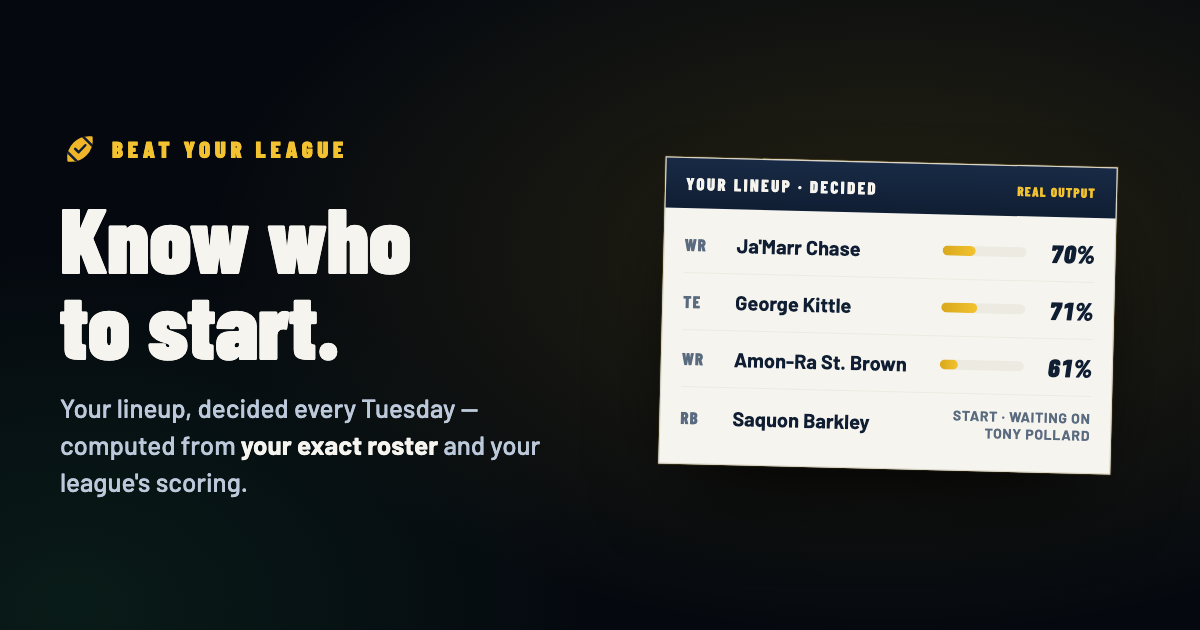
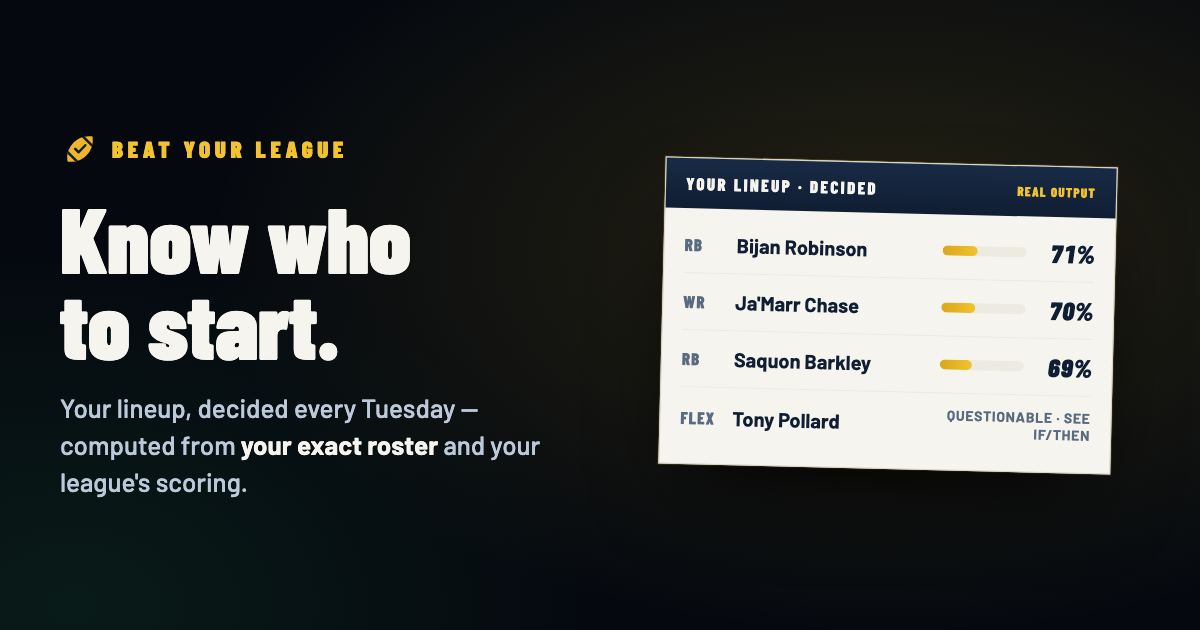
Last season counts all season: ships where it held up
The preregistered run (reports/anchor-backtest.md): on held-out 2020-2024 the
anchored lineups went 179-176 against the shipped ones where they differed,
a draw on points, while benching 20% fewer available stars and keeping the
number at grade B (refit b' = 1.4670). Both frozen clauses held, so it ships
in the setups whose own arm also held; 10- and 14-team leagues and superflex
did not and keep the shipped model.

Barkley on 2026 week 4 now projects 9.4, even with LaPorta, and the report
calls it a coin flip instead of a confident bench. The sample, landing cards
and share card are regenerated from the product.

diff --git a/site/sample-report.html b/site/sample-report.html
@@ -13,7 +13,7 @@
 <meta property="og:image" content="https://beatyourleague.com/og.png">
 <meta property="og:image:width" content="1200">
 <meta property="og:image:height" content="630">
-<meta property="og:image:alt" content="A Beat Your League lineup report: four roster slots, three with a percentage, one marked start.">
+<meta property="og:image:alt" content="A Beat Your League lineup report: four roster slots, three with a percentage, one marked questionable.">
 <link rel="icon" href="/favicon.ico" sizes="32x32">
 <link rel="icon" href="/favicon.svg" type="image/svg+xml">
 <link rel="apple-touch-icon" href="/apple-touch-icon.png">
@@ -335,7 +335,7 @@
 </head>
 <body>
 <div class="report">
-<header class="bug"><div style="display:flex;align-items:center;justify-content:space-between;gap:12px;flex-wrap:wrap;"><a class="brand" href="index.html" style="text-decoration:none;"><svg class="mark" viewBox="0 0 64 64" aria-hidden="true" focusable="false"><defs><clipPath id="bylmClip"><path d="M-28.37 0A35 35 0 0 1 28.37 0A35 35 0 0 1-28.37 0Z" transform="translate(32 32) rotate(-45)"/></clipPath></defs><path d="M-26.5 0A33.5 33.5 0 0 1 26.5 0A33.5 33.5 0 0 1-26.5 0Z" transform="translate(32 32) rotate(-45)" fill="#F0B62A" stroke="#F0B62A" stroke-width="3" stroke-linejoin="round"/><g clip-path="url(#bylmClip)" fill="#101E33"><rect x="-19.5" y="-20" width="4" height="40" transform="translate(32 32) rotate(-45)"/><rect x="15.5" y="-20" width="4" height="40" transform="translate(32 32) rotate(-45)"/></g><path d="M24.3 31.7l5.5 5.5 10.7-11.2" fill="none" stroke-width="4" stroke-linecap="round" stroke-linejoin="round" stroke="#101E33"/></svg><span>Beat Your League</span></a><a class="home" href="index.html" style="font-family:'Barlow',sans-serif;font-weight:600;font-size:14px;line-height:1;white-space:nowrap;text-decoration:none;color:var(--paper);padding:8px 15px;border:1.5px solid rgba(246,244,238,.45);border-radius:999px;">← Home</a></div><h1>Week 10 · Your Report</h1><div class="chips"><span class="chip"><b>Your league</b> · 12 teams · Full PPR</span><span class="chip">Rebuilt Sep 29, 2026 from the 2024 season archive</span></div></header><div class="regret-note" style="margin:0;border-left:none;">SAMPLE REPORT — a real week from the 2024 NFL season, built exactly the way yours will be: one roster, scored its league's way, from that week's box scores and injury reports.</div><section><div class="eyebrow"><span class="tag">Your Game Plan</span><span class="n">01</span></div><div class="plan"><div class="task"><div class="box"></div><div><div class="do">Start George Kittle over Sam LaPorta at TE · 71%</div><div class="why">Sam LaPorta: TE3 last season. Last three games: 3.5, 16.8, 4.8. Projects 6.5, George Kittle 10.7.</div><div class="dl ok">before this week&#x27;s first kickoff</div></div></div><div class="task"><div class="box"></div><div><div class="do">Bench Tony Pollard — Chase Brown starts at FLEX</div><div class="why">Tony Pollard: RB23 last season. Listed questionable. Last three games: 8.5, 14.7, 18.4. Projects 11.2, Chase Brown 11.2.</div><div class="dl ok">before this week&#x27;s first kickoff</div></div></div><div class="task"><div class="box"></div><div><div class="do">Set this lineup</div><div class="why">QB Josh Allen · RB Saquon Barkley · RB Bijan Robinson · WR Ja&#x27;Marr Chase · WR Amon-Ra St. Brown · TE George Kittle · FLEX Chase Brown · K Jake Bates · DEF Denver Broncos</div><div class="dl ok">before this week&#x27;s first kickoff</div></div></div><div class="task"><div class="box"></div><div><div class="do">Sunday morning: check Tony Pollard&#x27;s status</div><div class="why">Your if/then below already has the answer either way.</div><div class="dl">gameday morning</div></div></div></div></section><section><div class="eyebrow"><span class="tag">Your Week</span><span class="n">02</span></div><div class="team"><div class="name">Your Team</div><div class="pts">111.5 <small>PROJ</small></div><div class="yards">79 – 144 realistic range</div></div><p class="withheldline">Every call below is your starter against your own bench.</p></section><section><div class="eyebrow"><span class="tag">The Lineup</span><span class="n">03</span></div><table class="tape"><colgroup><col style="width:9%"><col style="width:58%"><col style="width:12%"><col style="width:21%"></colgroup><tr class="thead"><td></td><td>Your lineup</td><td style="text-align:right">Proj</td><td>Call</td></tr><tr class="trow"><td class="tslot">QB</td><td class="tside you"><span class="tname">Josh Allen</span><span class="tsub">last 4 games: 21 carries</span></td><td class="tpts you">17.4</td><td class="tcall"></td></tr><tr class="trow"><td class="tslot">RB</td><td class="tside you"><span class="tname">Saquon Barkley</span><span class="tsub">+4.1 over Tony Pollard on your bench · last 4 games: 10 targets (2.5 a game), 84 carries</span></td><td class="tpts you">15.3</td><td class="tcall"><span class="tsub">start · waiting on Tony Pollard</span></td></tr><tr class="trow"><td class="tslot">RB</td><td class="tside you"><span class="tname">Bijan Robinson</span><span class="tsub">+3.1 over Tony Pollard on your bench · last 4 games: 23 targets (5.8 a game), 68 carries</span></td><td class="tpts you">14.3</td><td class="tcall"><span class="tsub">start · waiting on Tony Pollard</span></td></tr><tr class="trow"><td class="tslot">WR</td><td class="tside you"><span class="tname">Ja&#x27;Marr Chase</span><span class="tsub">+5.0 over Courtland Sutton on your bench · last 4 games: 34 targets (8.5 a game), 1 carry</span></td><td class="tpts you">15.3</td><td class="tcall"><b>70%</b><span class="cbar" title="Bar starts at 50%, a coin flip"><i style="width:39%"></i></span></td></tr><tr class="trow"><td class="tslot">WR</td><td class="tside you"><span class="tname">Amon-Ra St. Brown</span><span class="tsub">+2.4 over Courtland Sutton on your bench · last 4 games: 21 targets (5.2 a game)</span></td><td class="tpts you">12.7</td><td class="tcall"><b>61%</b><span class="cbar" title="Bar starts at 50%, a coin flip"><i style="width:22%"></i></span></td></tr><tr class="trow"><td class="tslot">TE</td><td class="tside you"><span class="tname">George Kittle</span><span class="tsub">+4.2 over Sam LaPorta on your bench · last 3 games: 20 targets (6.7 a game)</span></td><td class="tpts you">10.7</td><td class="tcall"><b>71%</b><span class="cbar" title="Bar starts at 50%, a coin flip"><i style="width:43%"></i></span></td></tr><tr class="trow"><td class="tslot">FLEX</td><td class="tside you"><span class="tname">Chase Brown</span><span class="tsub">+0.9 over Courtland Sutton on your bench · last 4 games: 14 targets (3.5 a game), 64 carries</span></td><td class="tpts you">11.2</td><td class="tcall"><b>54%</b><span class="cbar" title="Bar starts at 50%, a coin flip"><i style="width:8%"></i></span></td></tr><tr class="trow"><td class="tslot">K</td><td class="tside you"><span class="tname">Jake Bates</span></td><td class="tpts you">7.7</td><td class="tcall"></td></tr><tr class="trow"><td class="tslot">DEF</td><td class="tside you"><span class="tname">Denver Broncos</span><span class="tsub">+2.1 over Baltimore Ravens on your bench</span></td><td class="tpts you">6.8</td><td class="tcall"><span class="tsub">projection only</span></td></tr></table><table class="tape benchtape"><colgroup><col style="width:9%"><col style="width:58%"><col style="width:12%"><col style="width:21%"></colgroup><tr class="thead"><td></td><td>On your bench</td><td style="text-align:right">Proj</td><td></td></tr><tr class="trow bench"><td class="tslot">RB</td><td class="tside you"><span class="tname">Tony Pollard</span><span class="trank">RB23 last season</span><span class="tsub">last 3: 8.5, 14.7, 18.4</span></td><td class="tpts you">11.2</td><td class="tcall"></td></tr><tr class="trow bench"><td class="tslot">WR</td><td class="tside you"><span class="tname">Courtland Sutton</span><span class="tsub">last 3: 15.3, 17.1, 23.3</span></td><td class="tpts you">10.3</td><td class="tcall"></td></tr><tr class="trow bench"><td class="tslot">WR</td><td class="tside you"><span class="tname">Rome Odunze</span><span class="tsub">last 3: 6.0, 8.4, 15.4</span></td><td class="tpts you">8.2</td><td class="tcall"></td></tr><tr class="trow bench"><td class="tslot">TE</td><td class="tside you"><span class="tname">Sam LaPorta</span><span class="trank">TE3 last season</span><span class="tsub">last 3: 3.5, 16.8, 4.8</span></td><td class="tpts you">6.5</td><td class="tcall"></td></tr><tr class="trow bench"><td class="tslot">DEF</td><td class="tside you"><span class="tname">Baltimore Ravens</span><span class="tsub">last 3: 6.0, 1.0, 10.0</span></td><td class="tpts you">4.6</td><td class="tcall"></td></tr><tr class="trow bench"><td class="tslot">WR</td><td class="tside you"><span class="tname">Jayden Reed</span><span class="tflag">can&#x27;t play this week</span></td><td class="tpts you">—</td><td class="tcall"></td></tr></table><div class="withheld"><b>How to read the odds.</b> The % is the chance your starter outscores your best bench player at that spot, and the bar starts at 50% (a toss-up). We only give odds when both players are confirmed to play. Rows without odds this week: defenses get a projection only · no bench player at that position · one of the two players is questionable.</div></section><section><div class="eyebrow"><span class="tag">The Week&#x27;s Closest Call</span><span class="n">04</span></div><div class="call"><div class="verdict">Start Chase Brown <span class="over">over</span> Courtland Sutton</div><div class="conf"><div class="bar"><i style="width:54%"></i></div><div class="num">54%</div></div><div class="drivers"><span class="drv">proj <b>11.2 vs 10.3</b></span><span class="drv">games this season <b>9 vs 8</b></span></div><p class="why">That&#x27;s the chance Chase Brown outscores Courtland Sutton this week.</p></div></section><section><div class="eyebrow"><span class="tag">If/Then for Gameday</span><span class="n">05</span></div><div class="pivots"><div class="pivot"><div class="if">If</div><div class="cond">Tony Pollard (bench) is cleared to play</div><div class="then">Keep Chase Brown at FLEX — they project dead even at 11.2, so it&#x27;s not worth a swap. If he&#x27;s out, nothing changes.</div></div></div></section><section><div class="eyebrow"><span class="tag">The Receipts</span><span class="n">06</span></div><div class="ledger">Your results start here: once this week&#x27;s games are final, every call shows up with how it played out.<br><span class="stamp">Results · from next week</span></div></section><div class="regret-note" style="margin:14px 0 0;text-align:center;">This report is from the 2024 season. Yours is built from your own roster, scored your league's way — <a href="join/index.html" style="color:var(--brick);font-weight:700;">set it up</a> and your first report lands the day you join.</div><footer><b>Beat Your League</b> — the weekly scouting report for your fantasy roster, every Tuesday.<br>Sample report built from a real past season, to show what you get. Injury and inactive data as of the week 9 injury report, the last complete one before this file goes out.<br>Projections are analysis, not guarantees — no betting picks, no staking advice. Fantasy decisions are yours to make.<br>NFL data: nflverse (nflverse-data), CC-BY-4.0. Aggregated and scored to your league&#x27;s settings by us. Not affiliated with the NFL.<br><b>Done with this?</b> Cancel it yourself from your own billing page — it takes about fifteen seconds and stops the billing immediately; the exact steps are on our terms page. Unsubscribing from emails alone does not stop a subscription, so cancel there if you want the charges to end.</footer>
+<header class="bug"><div style="display:flex;align-items:center;justify-content:space-between;gap:12px;flex-wrap:wrap;"><a class="brand" href="index.html" style="text-decoration:none;"><svg class="mark" viewBox="0 0 64 64" aria-hidden="true" focusable="false"><defs><clipPath id="bylmClip"><path d="M-28.37 0A35 35 0 0 1 28.37 0A35 35 0 0 1-28.37 0Z" transform="translate(32 32) rotate(-45)"/></clipPath></defs><path d="M-26.5 0A33.5 33.5 0 0 1 26.5 0A33.5 33.5 0 0 1-26.5 0Z" transform="translate(32 32) rotate(-45)" fill="#F0B62A" stroke="#F0B62A" stroke-width="3" stroke-linejoin="round"/><g clip-path="url(#bylmClip)" fill="#101E33"><rect x="-19.5" y="-20" width="4" height="40" transform="translate(32 32) rotate(-45)"/><rect x="15.5" y="-20" width="4" height="40" transform="translate(32 32) rotate(-45)"/></g><path d="M24.3 31.7l5.5 5.5 10.7-11.2" fill="none" stroke-width="4" stroke-linecap="round" stroke-linejoin="round" stroke="#101E33"/></svg><span>Beat Your League</span></a><a class="home" href="index.html" style="font-family:'Barlow',sans-serif;font-weight:600;font-size:14px;line-height:1;white-space:nowrap;text-decoration:none;color:var(--paper);padding:8px 15px;border:1.5px solid rgba(246,244,238,.45);border-radius:999px;">← Home</a></div><h1>Week 10 · Your Report</h1><div class="chips"><span class="chip"><b>Your league</b> · 12 teams · Full PPR</span><span class="chip">Rebuilt Sep 29, 2026 from the 2024 season archive</span></div></header><div class="regret-note" style="margin:0;border-left:none;">SAMPLE REPORT — a real week from the 2024 NFL season, built exactly the way yours will be: one roster, scored its league's way, from that week's box scores and injury reports.</div><section><div class="eyebrow"><span class="tag">Your Game Plan</span><span class="n">01</span></div><div class="plan"><div class="task"><div class="box"></div><div><div class="do">Start George Kittle over Sam LaPorta at TE · 63%</div><div class="why">Sam LaPorta: TE3 last season. Last three games: 3.5, 16.8, 4.8. Projects 7.8, George Kittle 10.4.</div><div class="dl ok">before this week&#x27;s first kickoff</div></div></div><div class="task"><div class="box"></div><div><div class="do">Set this lineup</div><div class="why">QB Josh Allen · RB Saquon Barkley · RB Bijan Robinson · WR Ja&#x27;Marr Chase · WR Amon-Ra St. Brown · TE George Kittle · FLEX Tony Pollard · K Jake Bates · DEF Denver Broncos</div><div class="dl ok">before this week&#x27;s first kickoff</div></div></div><div class="task"><div class="box"></div><div><div class="do">Sunday morning: check Tony Pollard&#x27;s status</div><div class="why">Your if/then below already has the answer either way.</div><div class="dl">gameday morning</div></div></div></div></section><section><div class="eyebrow"><span class="tag">Your Week</span><span class="n">02</span></div><div class="team"><div class="name">Your Team</div><div class="pts">112.4 <small>PROJ</small></div><div class="yards">79 – 145 realistic range</div></div><p class="withheldline">Every call below is your starter against your own bench.</p></section><section><div class="eyebrow"><span class="tag">The Lineup</span><span class="n">03</span></div><table class="tape"><colgroup><col style="width:9%"><col style="width:58%"><col style="width:12%"><col style="width:21%"></colgroup><tr class="thead"><td></td><td>Your lineup</td><td style="text-align:right">Proj</td><td>Call</td></tr><tr class="trow"><td class="tslot">QB</td><td class="tside you"><span class="tname">Josh Allen</span><span class="tsub">last 4 games: 21 carries</span></td><td class="tpts you">18.4</td><td class="tcall"></td></tr><tr class="trow"><td class="tslot">RB</td><td class="tside you"><span class="tname">Saquon Barkley</span><span class="tsub">+4.9 over Chase Brown on your bench · last 4 games: 10 targets (2.5 a game), 84 carries</span></td><td class="tpts you">14.8</td><td class="tcall"><b>69%</b><span class="cbar" title="Bar starts at 50%, a coin flip"><i style="width:38%"></i></span></td></tr><tr class="trow"><td class="tslot">RB</td><td class="tside you"><span class="tname">Bijan Robinson</span><span class="tsub">+4.1 over Chase Brown on your bench · last 4 games: 23 targets (5.8 a game), 68 carries</span></td><td class="tpts you">14.0</td><td class="tcall"><b>71%</b><span class="cbar" title="Bar starts at 50%, a coin flip"><i style="width:42%"></i></span></td></tr><tr class="trow"><td class="tslot">WR</td><td class="tside you"><span class="tname">Ja&#x27;Marr Chase</span><span class="tsub">+5.0 over Courtland Sutton on your bench · last 4 games: 34 targets (8.5 a game), 1 carry</span></td><td class="tpts you">15.3</td><td class="tcall"><b>70%</b><span class="cbar" title="Bar starts at 50%, a coin flip"><i style="width:41%"></i></span></td></tr><tr class="trow"><td class="tslot">WR</td><td class="tside you"><span class="tname">Amon-Ra St. Brown</span><span class="tsub">+3.7 over Courtland Sutton on your bench · last 4 games: 21 targets (5.2 a game)</span></td><td class="tpts you">13.9</td><td class="tcall"><b>68%</b><span class="cbar" title="Bar starts at 50%, a coin flip"><i style="width:36%"></i></span></td></tr><tr class="trow"><td class="tslot">TE</td><td class="tside you"><span class="tname">George Kittle</span><span class="tsub">+2.5 over Sam LaPorta on your bench · last 3 games: 20 targets (6.7 a game)</span></td><td class="tpts you">10.4</td><td class="tcall"><b>63%</b><span class="cbar" title="Bar starts at 50%, a coin flip"><i style="width:26%"></i></span></td></tr><tr class="trow"><td class="tslot">FLEX</td><td class="tside you"><span class="tname">Tony Pollard</span><span class="tflag">designated Questionable</span><span class="tsub">+0.8 over Courtland Sutton on your bench · last 4 games: 16 targets (4.0 a game), 81 carries</span></td><td class="tpts you">11.1</td><td class="tcall"><span class="tsub">questionable · see if/then</span></td></tr><tr class="trow"><td class="tslot">K</td><td class="tside you"><span class="tname">Jake Bates</span></td><td class="tpts you">7.7</td><td class="tcall"></td></tr><tr class="trow"><td class="tslot">DEF</td><td class="tside you"><span class="tname">Denver Broncos</span><span class="tsub">+2.1 over Baltimore Ravens on your bench</span></td><td class="tpts you">6.8</td><td class="tcall"><span class="tsub">projection only</span></td></tr></table><table class="tape benchtape"><colgroup><col style="width:9%"><col style="width:58%"><col style="width:12%"><col style="width:21%"></colgroup><tr class="thead"><td></td><td>On your bench</td><td style="text-align:right">Proj</td><td></td></tr><tr class="trow bench"><td class="tslot">WR</td><td class="tside you"><span class="tname">Courtland Sutton</span><span class="tsub">last 3: 15.3, 17.1, 23.3</span></td><td class="tpts you">10.3</td><td class="tcall"></td></tr><tr class="trow bench"><td class="tslot">RB</td><td class="tside you"><span class="tname">Chase Brown</span><span class="tsub">last 3: 7.3, 11.4, 26.7</span></td><td class="tpts you">9.9</td><td class="tcall"></td></tr><tr class="trow bench"><td class="tslot">WR</td><td class="tside you"><span class="tname">Rome Odunze</span><span class="tsub">last 3: 6.0, 8.4, 15.4</span></td><td class="tpts you">8.2</td><td class="tcall"></td></tr><tr class="trow bench"><td class="tslot">TE</td><td class="tside you"><span class="tname">Sam LaPorta</span><span class="trank">TE3 last season</span><span class="tsub">last 3: 3.5, 16.8, 4.8</span></td><td class="tpts you">7.8</td><td class="tcall"></td></tr><tr class="trow bench"><td class="tslot">DEF</td><td class="tside you"><span class="tname">Baltimore Ravens</span><span class="tsub">last 3: 6.0, 1.0, 10.0</span></td><td class="tpts you">4.6</td><td class="tcall"></td></tr><tr class="trow bench"><td class="tslot">WR</td><td class="tside you"><span class="tname">Jayden Reed</span><span class="tflag">can&#x27;t play this week</span></td><td class="tpts you">—</td><td class="tcall"></td></tr></table><div class="withheld"><b>How to read the odds.</b> The % is the chance your starter outscores your best bench player at that spot, and the bar starts at 50% (a toss-up). We only give odds when both players are confirmed to play. Rows without odds this week: defenses get a projection only · no bench player at that position · one of the two players is questionable.</div></section><section><div class="eyebrow"><span class="tag">The Week&#x27;s Closest Call</span><span class="n">04</span></div><div class="call"><div class="verdict">Start George Kittle <span class="over">over</span> Sam LaPorta</div><div class="conf"><div class="bar"><i style="width:63%"></i></div><div class="num">63%</div></div><div class="drivers"><span class="drv">proj <b>10.4 vs 7.8</b></span><span class="drv">games this season <b>7 vs 8</b></span></div><p class="why">That&#x27;s the chance George Kittle outscores Sam LaPorta this week.</p></div></section><section><div class="eyebrow"><span class="tag">If/Then for Gameday</span><span class="n">05</span></div><div class="pivots"><div class="pivot"><div class="if">If</div><div class="cond">Tony Pollard (FLEX) is ruled out</div><div class="then">Move Courtland Sutton into FLEX (projects 10.3)</div></div></div></section><section><div class="eyebrow"><span class="tag">The Receipts</span><span class="n">06</span></div><div class="ledger">Your results start here: once this week&#x27;s games are final, every call shows up with how it played out.<br><span class="stamp">Results · from next week</span></div></section><div class="regret-note" style="margin:14px 0 0;text-align:center;">This report is from the 2024 season. Yours is built from your own roster, scored your league's way — <a href="join/index.html" style="color:var(--brick);font-weight:700;">set it up</a> and your first report lands the day you join.</div><footer><b>Beat Your League</b> — the weekly scouting report for your fantasy roster, every Tuesday.<br>Sample report built from a real past season, to show what you get. Injury and inactive data as of the week 9 injury report, the last complete one before this file goes out.<br>Projections are analysis, not guarantees — no betting picks, no staking advice. Fantasy decisions are yours to make.<br>NFL data: nflverse (nflverse-data), CC-BY-4.0. Aggregated and scored to your league&#x27;s settings by us. Not affiliated with the NFL.<br><b>Done with this?</b> Cancel it yourself from your own billing page — it takes about fifteen seconds and stops the billing immediately; the exact steps are on our terms page. Unsubscribing from emails alone does not stop a subscription, so cancel there if you want the charges to end.</footer>
 </div>
 </body>
 </html>

diff --git a/site/index.html b/site/index.html
@@ -13,7 +13,7 @@
 <meta property="og:image" content="https://beatyourleague.com/og.png">
 <meta property="og:image:width" content="1200">
 <meta property="og:image:height" content="630">
-<meta property="og:image:alt" content="A Beat Your League lineup report: four roster slots, three with a percentage, one marked start.">
+<meta property="og:image:alt" content="A Beat Your League lineup report: four roster slots, three with a percentage, one marked questionable.">
 <link rel="icon" href="/favicon.ico" sizes="32x32">
 <link rel="icon" href="/favicon.svg" type="image/svg+xml">
 <link rel="apple-touch-icon" href="/apple-touch-icon.png">
@@ -514,7 +514,7 @@
         <div class="notif" id="notif" aria-hidden="true">
           <span class="av"><svg class="avmark" viewBox="0 0 64 64" aria-hidden="true" focusable="false"><defs><clipPath id="byla2Clip"><path d="M-28.37 0A35 35 0 0 1 28.37 0A35 35 0 0 1-28.37 0Z" transform="translate(32 32) rotate(-45)"/></clipPath></defs><path d="M-26.5 0A33.5 33.5 0 0 1 26.5 0A33.5 33.5 0 0 1-26.5 0Z" transform="translate(32 32) rotate(-45)" fill="#F0B62A" stroke="#F0B62A" stroke-width="3" stroke-linejoin="round"/><g clip-path="url(#byla2Clip)" fill="#101E33"><rect x="-19.5" y="-20" width="4" height="40" transform="translate(32 32) rotate(-45)"/><rect x="15.5" y="-20" width="4" height="40" transform="translate(32 32) rotate(-45)"/></g><path d="M24.3 31.7l5.5 5.5 10.7-11.2" fill="none" stroke-width="4" stroke-linecap="round" stroke-linejoin="round" stroke="#101E33"/></svg></span>
           <span><b>Beat Your League</b><span>Week 10: your lineup, decided. Closest call:
-          Chase Brown over Sutton, 54%.</span></span>
+          Kittle over LaPorta, 63%.</span></span>
           <time>now</time>
         </div>
         <div class="inbox" aria-hidden="true">Inbox</div>
@@ -526,23 +526,23 @@
         <div class="filecard anim" id="hero-card" data-real="2024-w10">
           <div class="filehead">Your lineup · decided</div>
           <div class="fbody">
+            <div class="frow"><span class="fslot">RB</span><span class="fname">Bijan Robinson</span>
+              <span class="fbar"><i data-w="42" style="width:42%"></i></span><span class="fpct" data-n="71">71%</span></div>
             <div class="frow"><span class="fslot">WR</span><span class="fname">Ja'Marr Chase</span>
-              <span class="fbar"><i data-w="39" style="width:39%"></i></span><span class="fpct" data-n="70">70%</span></div>
-            <div class="frow"><span class="fslot">TE</span><span class="fname">George Kittle</span>
-              <span class="fbar"><i data-w="43" style="width:43%"></i></span><span class="fpct" data-n="71">71%</span></div>
-            <div class="frow"><span class="fslot">WR</span><span class="fname">Amon-Ra St. Brown</span>
-              <span class="fbar"><i data-w="22" style="width:22%"></i></span><span class="fpct" data-n="61">61%</span></div>
+              <span class="fbar"><i data-w="41" style="width:41%"></i></span><span class="fpct" data-n="70">70%</span></div>
             <div class="frow"><span class="fslot">RB</span><span class="fname">Saquon Barkley</span>
-              <span class="fnc">start · waiting on Tony Pollard</span></div>
+              <span class="fbar"><i data-w="38" style="width:38%"></i></span><span class="fpct" data-n="69">69%</span></div>
+            <div class="frow"><span class="fslot">FLEX</span><span class="fname">Tony Pollard</span>
+              <span class="fnc">questionable · see if/then</span></div>
           </div>
           <div class="fcap">Each % is the chance he outscores your best bench player.
           Longer bar, surer call.</div>
         </div><!--/card-->
         <div class="peek" aria-hidden="true"><div class="filehead">The week's closest call</div>
-          <p>Start Chase Brown over Courtland Sutton</p>
-          <div class="flipbar"><span class="a" style="width:54%"></span></div>
+          <p>Start George Kittle over Sam LaPorta</p>
+          <div class="flipbar"><span class="a" style="width:63%"></span></div>
           <div class="filehead">If/then for gameday</div>
-          <div class="pivot"><div class="if">If Tony Pollard (bench) is cleared to play</div></div></div>
+          <div class="pivot"><div class="if">If Tony Pollard (FLEX) is ruled out</div></div></div>
         <div class="homebar" aria-hidden="true"></div>
       </div>
     </div>
@@ -570,20 +570,20 @@
         <div class="filehead">The week's closest call</div>
         <div class="flip">
           <div class="flipnames">
-            <span>Chase Brown<small>start · proj 11.2</small></span>
-            <span style="text-align:right">Courtland Sutton<small>sit · proj 10.3</small></span>
+            <span>George Kittle<small>start · proj 10.4</small></span>
+            <span style="text-align:right">Sam LaPorta<small>sit · proj 7.8</small></span>
           </div>
-          <div class="flipbar"><span class="a" data-w="54" style="width:54%"></span></div>
-          <!-- One numeral only: the sample publishes the 61% side and nothing
+          <div class="flipbar"><span class="a" data-w="63" style="width:63%"></span></div>
+          <!-- One numeral only: the sample publishes the 63% side and nothing
                else, and a real-output card may not print a figure the product
                never printed — even an arithmetic complement. -->
-          <div class="flippct"><span>54%</span></div>
+          <div class="flippct"><span>63%</span></div>
         </div>
       </div><!--/card-->
     </div>
-    <div class="note"><b>The toss-up, called</b><p>Every week has one call that could go
-      either way. We pick a side and tell you how close it is: Start Chase Brown over
-      Courtland Sutton — 54%, proj 11.2 vs 10.3.</p></div>
+    <div class="note"><b>The close one, called</b><p>Every week has a call you could
+      argue either way. We pick a side and tell you how sure to be: Start George Kittle
+      over Sam LaPorta — 63%, proj 10.4 vs 7.8.</p></div>
     <div class="leaf">
       <div class="filecard anim" data-real="2024-w10">
         <div class="filehead">Who's getting the ball</div>
@@ -604,14 +604,14 @@
       <div class="filecard anim" data-real="2024-w10">
         <div class="filehead">If/then for gameday</div>
         <div class="pivot">
-          <div class="if">If Tony Pollard (bench) is cleared to play</div>
-          <p>Keep Chase Brown at FLEX — they project dead even at 11.2, so it's not
-          worth a swap. If he's ruled out, nothing changes.</p>
+          <div class="if">If Tony Pollard (FLEX) is ruled out</div>
+          <p>Move Courtland Sutton into FLEX (projects 10.3).</p>
         </div>
       </div><!--/card-->
     </div>
-    <div class="note"><b>Late news, handled early</b><p>Got a questionable player? The
-      report already tells you what to do if he plays and if he doesn't.</p></div>
+    <div class="note"><b>Late news, handled early</b><p>Got a questionable starter? The
+      report already names who goes in if he sits — and Saturday's final check tells
+      you if he does.</p></div>
   </div>
   <p class="realfoot"><b>Real report</b> · every figure above comes from the published
   <a href="sample-report.html" style="color:var(--flag)">2024 Week 10 sample</a>.</p>

diff --git a/site/backtest.html b/site/backtest.html
@@ -14,7 +14,7 @@
 <meta property="og:image" content="https://beatyourleague.com/og.png">
 <meta property="og:image:width" content="1200">
 <meta property="og:image:height" content="630">
-<meta property="og:image:alt" content="A Beat Your League lineup report: four roster slots, three with a percentage, one marked start.">
+<meta property="og:image:alt" content="A Beat Your League lineup report: four roster slots, three with a percentage, one marked questionable.">
 <link rel="icon" href="/favicon.ico" sizes="32x32">
 <link rel="icon" href="/favicon.svg" type="image/svg+xml">
 <link rel="apple-touch-icon" href="/apple-touch-icon.png">

diff --git a/site/compare/index.html b/site/compare/index.html
@@ -14,7 +14,7 @@
 <meta property="og:image" content="https://beatyourleague.com/og.png">
 <meta property="og:image:width" content="1200">
 <meta property="og:image:height" content="630">
-<meta property="og:image:alt" content="A Beat Your League lineup report: four roster slots, three with a percentage, one marked start.">
+<meta property="og:image:alt" content="A Beat Your League lineup report: four roster slots, three with a percentage, one marked questionable.">
 <link rel="icon" href="/favicon.ico" sizes="32x32">
 <link rel="icon" href="/favicon.svg" type="image/svg+xml">
 <link rel="apple-touch-icon" href="/apple-touch-icon.png">

diff --git a/site/confidence.html b/site/confidence.html
@@ -14,7 +14,7 @@
 <meta property="og:image" content="https://beatyourleague.com/og.png">
 <meta property="og:image:width" content="1200">
 <meta property="og:image:height" content="630">
-<meta property="og:image:alt" content="A Beat Your League lineup report: four roster slots, three with a percentage, one marked start.">
+<meta property="og:image:alt" content="A Beat Your League lineup report: four roster slots, three with a percentage, one marked questionable.">
 <link rel="icon" href="/favicon.ico" sizes="32x32">
 <link rel="icon" href="/favicon.svg" type="image/svg+xml">
 <link rel="apple-touch-icon" href="/apple-touch-icon.png">

diff --git a/site/join/index.html b/site/join/index.html
@@ -13,7 +13,7 @@
 <meta property="og:image" content="https://beatyourleague.com/og.png">
 <meta property="og:image:width" content="1200">
 <meta property="og:image:height" content="630">
-<meta property="og:image:alt" content="A Beat Your League lineup report: four roster slots, three with a percentage, one marked start.">
+<meta property="og:image:alt" content="A Beat Your League lineup report: four roster slots, three with a percentage, one marked questionable.">
 <link rel="icon" href="/favicon.ico" sizes="32x32">
 <link rel="icon" href="/favicon.svg" type="image/svg+xml">
 <link rel="apple-touch-icon" href="/apple-touch-icon.png">

diff --git a/site/league-pass.html b/site/league-pass.html
@@ -13,7 +13,7 @@
 <meta property="og:image" content="https://beatyourleague.com/og.png">
 <meta property="og:image:width" content="1200">
 <meta property="og:image:height" content="630">
-<meta property="og:image:alt" content="A Beat Your League lineup report: four roster slots, three with a percentage, one marked start.">
+<meta property="og:image:alt" content="A Beat Your League lineup report: four roster slots, three with a percentage, one marked questionable.">
 <link rel="icon" href="/favicon.ico" sizes="32x32">
 <link rel="icon" href="/favicon.svg" type="image/svg+xml">
 <link rel="apple-touch-icon" href="/apple-touch-icon.png">

diff --git a/site/ledger/index.html b/site/ledger/index.html
@@ -14,7 +14,7 @@
 <meta property="og:image" content="https://beatyourleague.com/og.png">
 <meta property="og:image:width" content="1200">
 <meta property="og:image:height" content="630">
-<meta property="og:image:alt" content="A Beat Your League lineup report: four roster slots, three with a percentage, one marked start.">
+<meta property="og:image:alt" content="A Beat Your League lineup report: four roster slots, three with a percentage, one marked questionable.">
 <link rel="icon" href="/favicon.ico" sizes="32x32">
 <link rel="icon" href="/favicon.svg" type="image/svg+xml">
 <link rel="apple-touch-icon" href="/apple-touch-icon.png">

diff --git a/site/legal.html b/site/legal.html
@@ -13,7 +13,7 @@
 <meta property="og:image" content="https://beatyourleague.com/og.png">
 <meta property="og:image:width" content="1200">
 <meta property="og:image:height" content="630">
-<meta property="og:image:alt" content="A Beat Your League lineup report: four roster slots, three with a percentage, one marked start.">
+<meta property="og:image:alt" content="A Beat Your League lineup report: four roster slots, three with a percentage, one marked questionable.">
 <link rel="icon" href="/favicon.ico" sizes="32x32">
 <link rel="icon" href="/favicon.svg" type="image/svg+xml">
 <link rel="apple-touch-icon" href="/apple-touch-icon.png">

diff --git a/site/no-call.html b/site/no-call.html
@@ -14,7 +14,7 @@
 <meta property="og:image" content="https://beatyourleague.com/og.png">
 <meta property="og:image:width" content="1200">
 <meta property="og:image:height" content="630">
-<meta property="og:image:alt" content="A Beat Your League lineup report: four roster slots, three with a percentage, one marked start.">
+<meta property="og:image:alt" content="A Beat Your League lineup report: four roster slots, three with a percentage, one marked questionable.">
 <link rel="icon" href="/favicon.ico" sizes="32x32">
 <link rel="icon" href="/favicon.svg" type="image/svg+xml">
 <link rel="apple-touch-icon" href="/apple-touch-icon.png">

diff --git a/site/privacy.html b/site/privacy.html
@@ -13,7 +13,7 @@
 <meta property="og:image" content="https://beatyourleague.com/og.png">
 <meta property="og:image:width" content="1200">
 <meta property="og:image:height" content="630">
-<meta property="og:image:alt" content="A Beat Your League lineup report: four roster slots, three with a percentage, one marked start.">
+<meta property="og:image:alt" content="A Beat Your League lineup report: four roster slots, three with a percentage, one marked questionable.">
 <link rel="icon" href="/favicon.ico" sizes="32x32">
 <link rel="icon" href="/favicon.svg" type="image/svg+xml">
 <link rel="apple-touch-icon" href="/apple-touch-icon.png">

diff --git a/site/projections.html b/site/projections.html
@@ -14,7 +14,7 @@
 <meta property="og:image" content="https://beatyourleague.com/og.png">
 <meta property="og:image:width" content="1200">
 <meta property="og:image:height" content="630">
-<meta property="og:image:alt" content="A Beat Your League lineup report: four roster slots, three with a percentage, one marked start.">
+<meta property="og:image:alt" content="A Beat Your League lineup report: four roster slots, three with a percentage, one marked questionable.">
 <link rel="icon" href="/favicon.ico" sizes="32x32">
 <link rel="icon" href="/favicon.svg" type="image/svg+xml">
 <link rel="apple-touch-icon" href="/apple-touch-icon.png">
